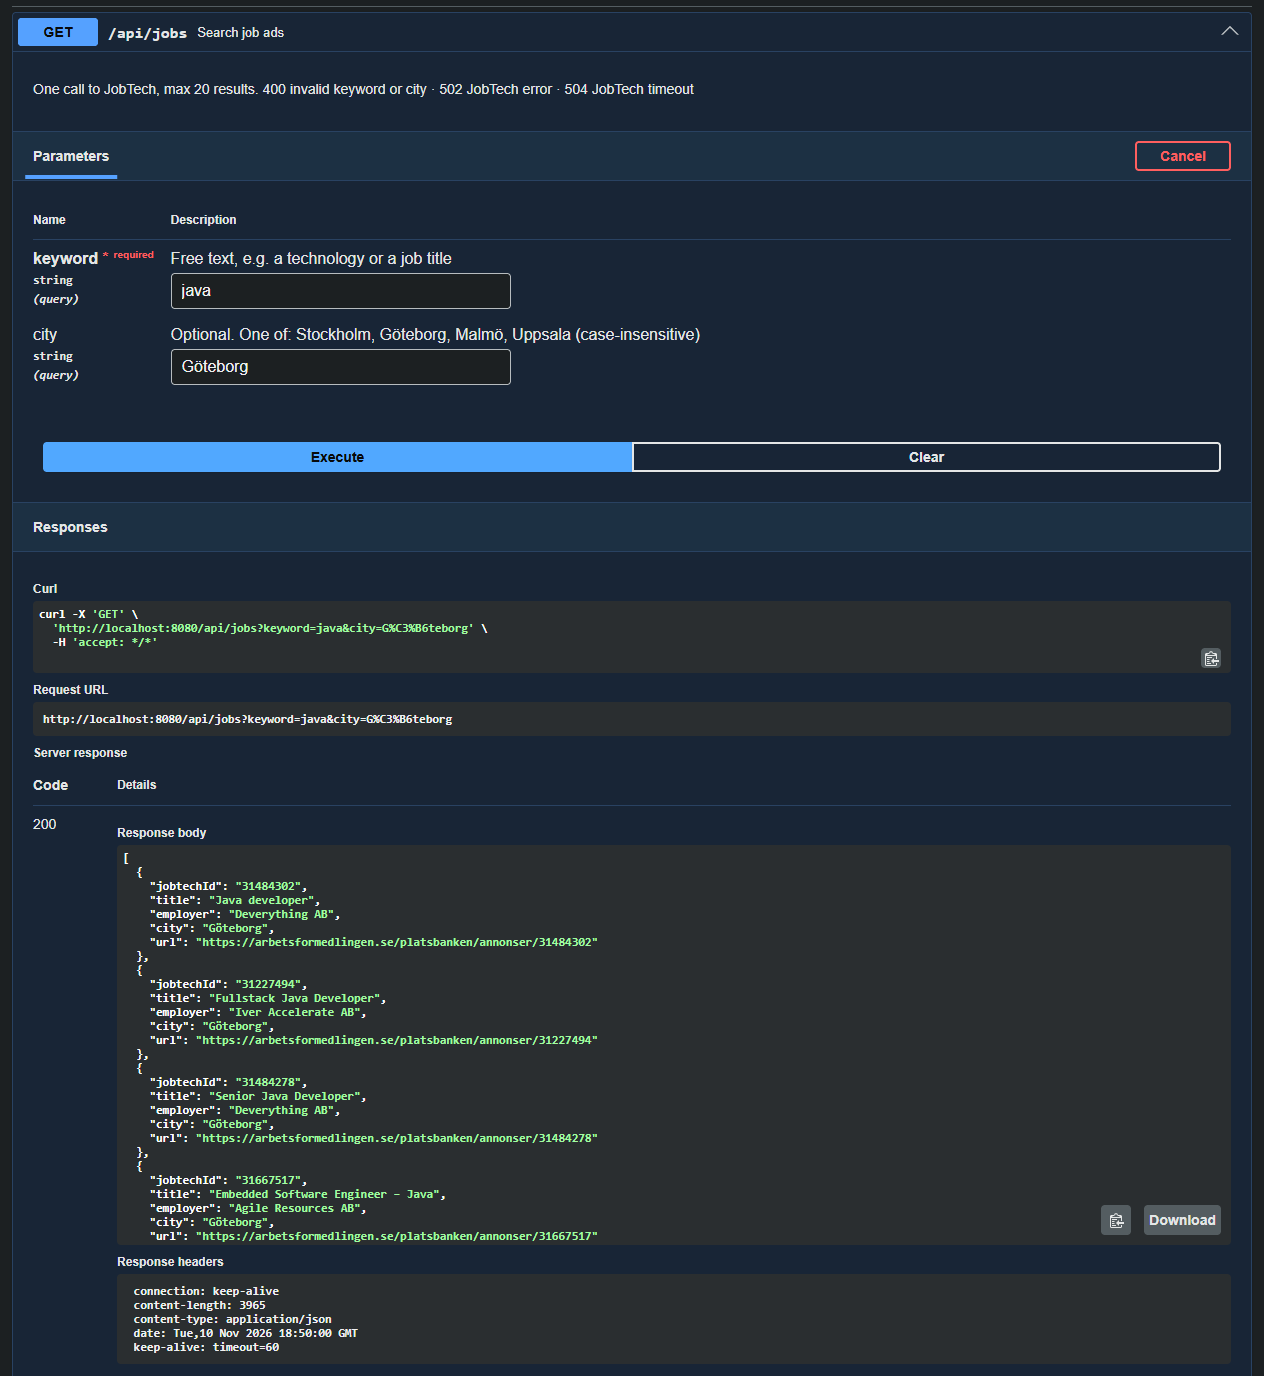
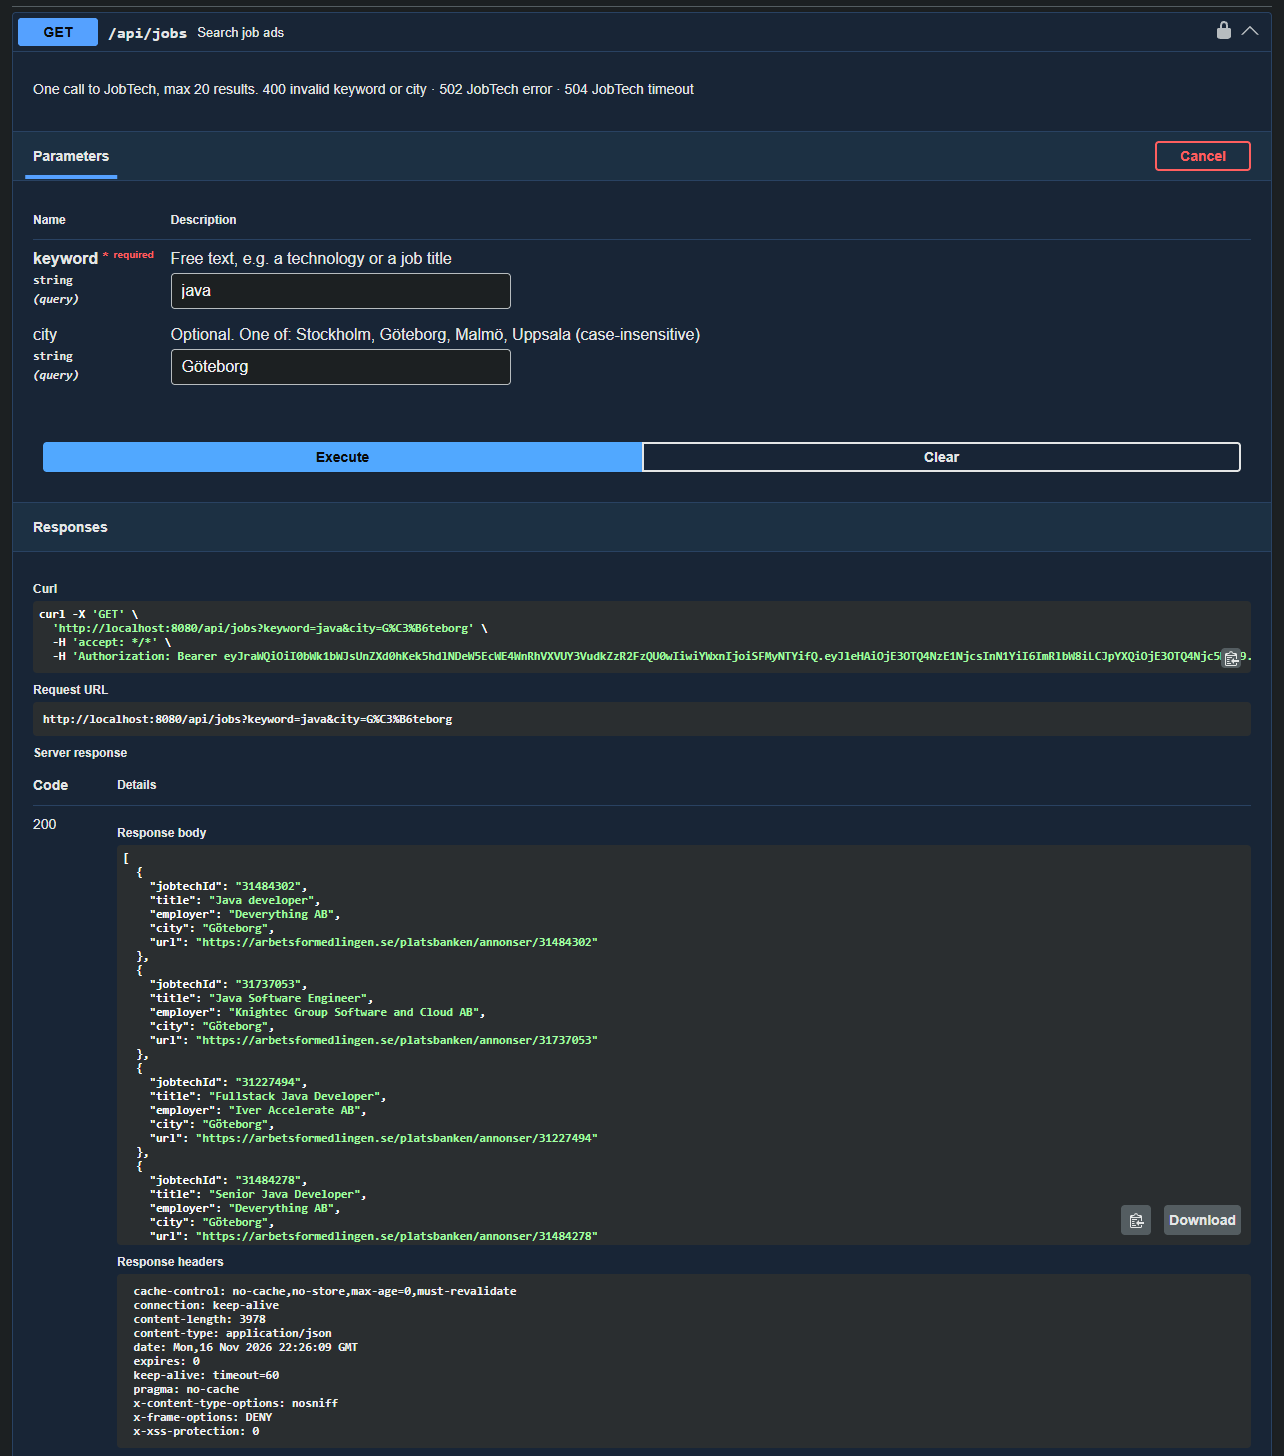
docs: update README screenshots

diff --git a/docs/plan.md b/docs/plan.md
@@ -6,7 +6,8 @@
 - **Fase 10 cerrada (2026-11-16):** registro, login con JWT y endpoints protegidos. 117 tests en verde (5 necesitan Docker), y probado de punta a punta contra PostgreSQL y JobTech.
 - **Fase 11 cerrada (2026-11-16):** cada candidatura pertenece a un usuario y la de otro usuario responde 404. 122 tests en verde (8 necesitan Docker), y probado de punta a punta con dos usuarios contra PostgreSQL.
 - **Fase 12 cerrada (2026-11-16):** la API está desplegada en https://pendla.onrender.com (Render + Neon, 0 € al mes) con el registro cerrado. 125 tests en verde (8 necesitan Docker), y probado desde fuera contra la URL pública.
-- **Siguiente paso:** ninguno decidido. Pendiente aparte: rehacer las capturas de `docs/images` (son anteriores a las Fases 8, 10, 11 y 12).
+- **Capturas del README rehechas (2026-11-16):** las tres de `docs/images` ya muestran los endpoints de `Auth`, el botón `Authorize` y las peticiones con token.
+- **Siguiente paso:** ninguno decidido.
 - **Bloqueos:** ninguno.
 
 ## Requisitos del MVP
